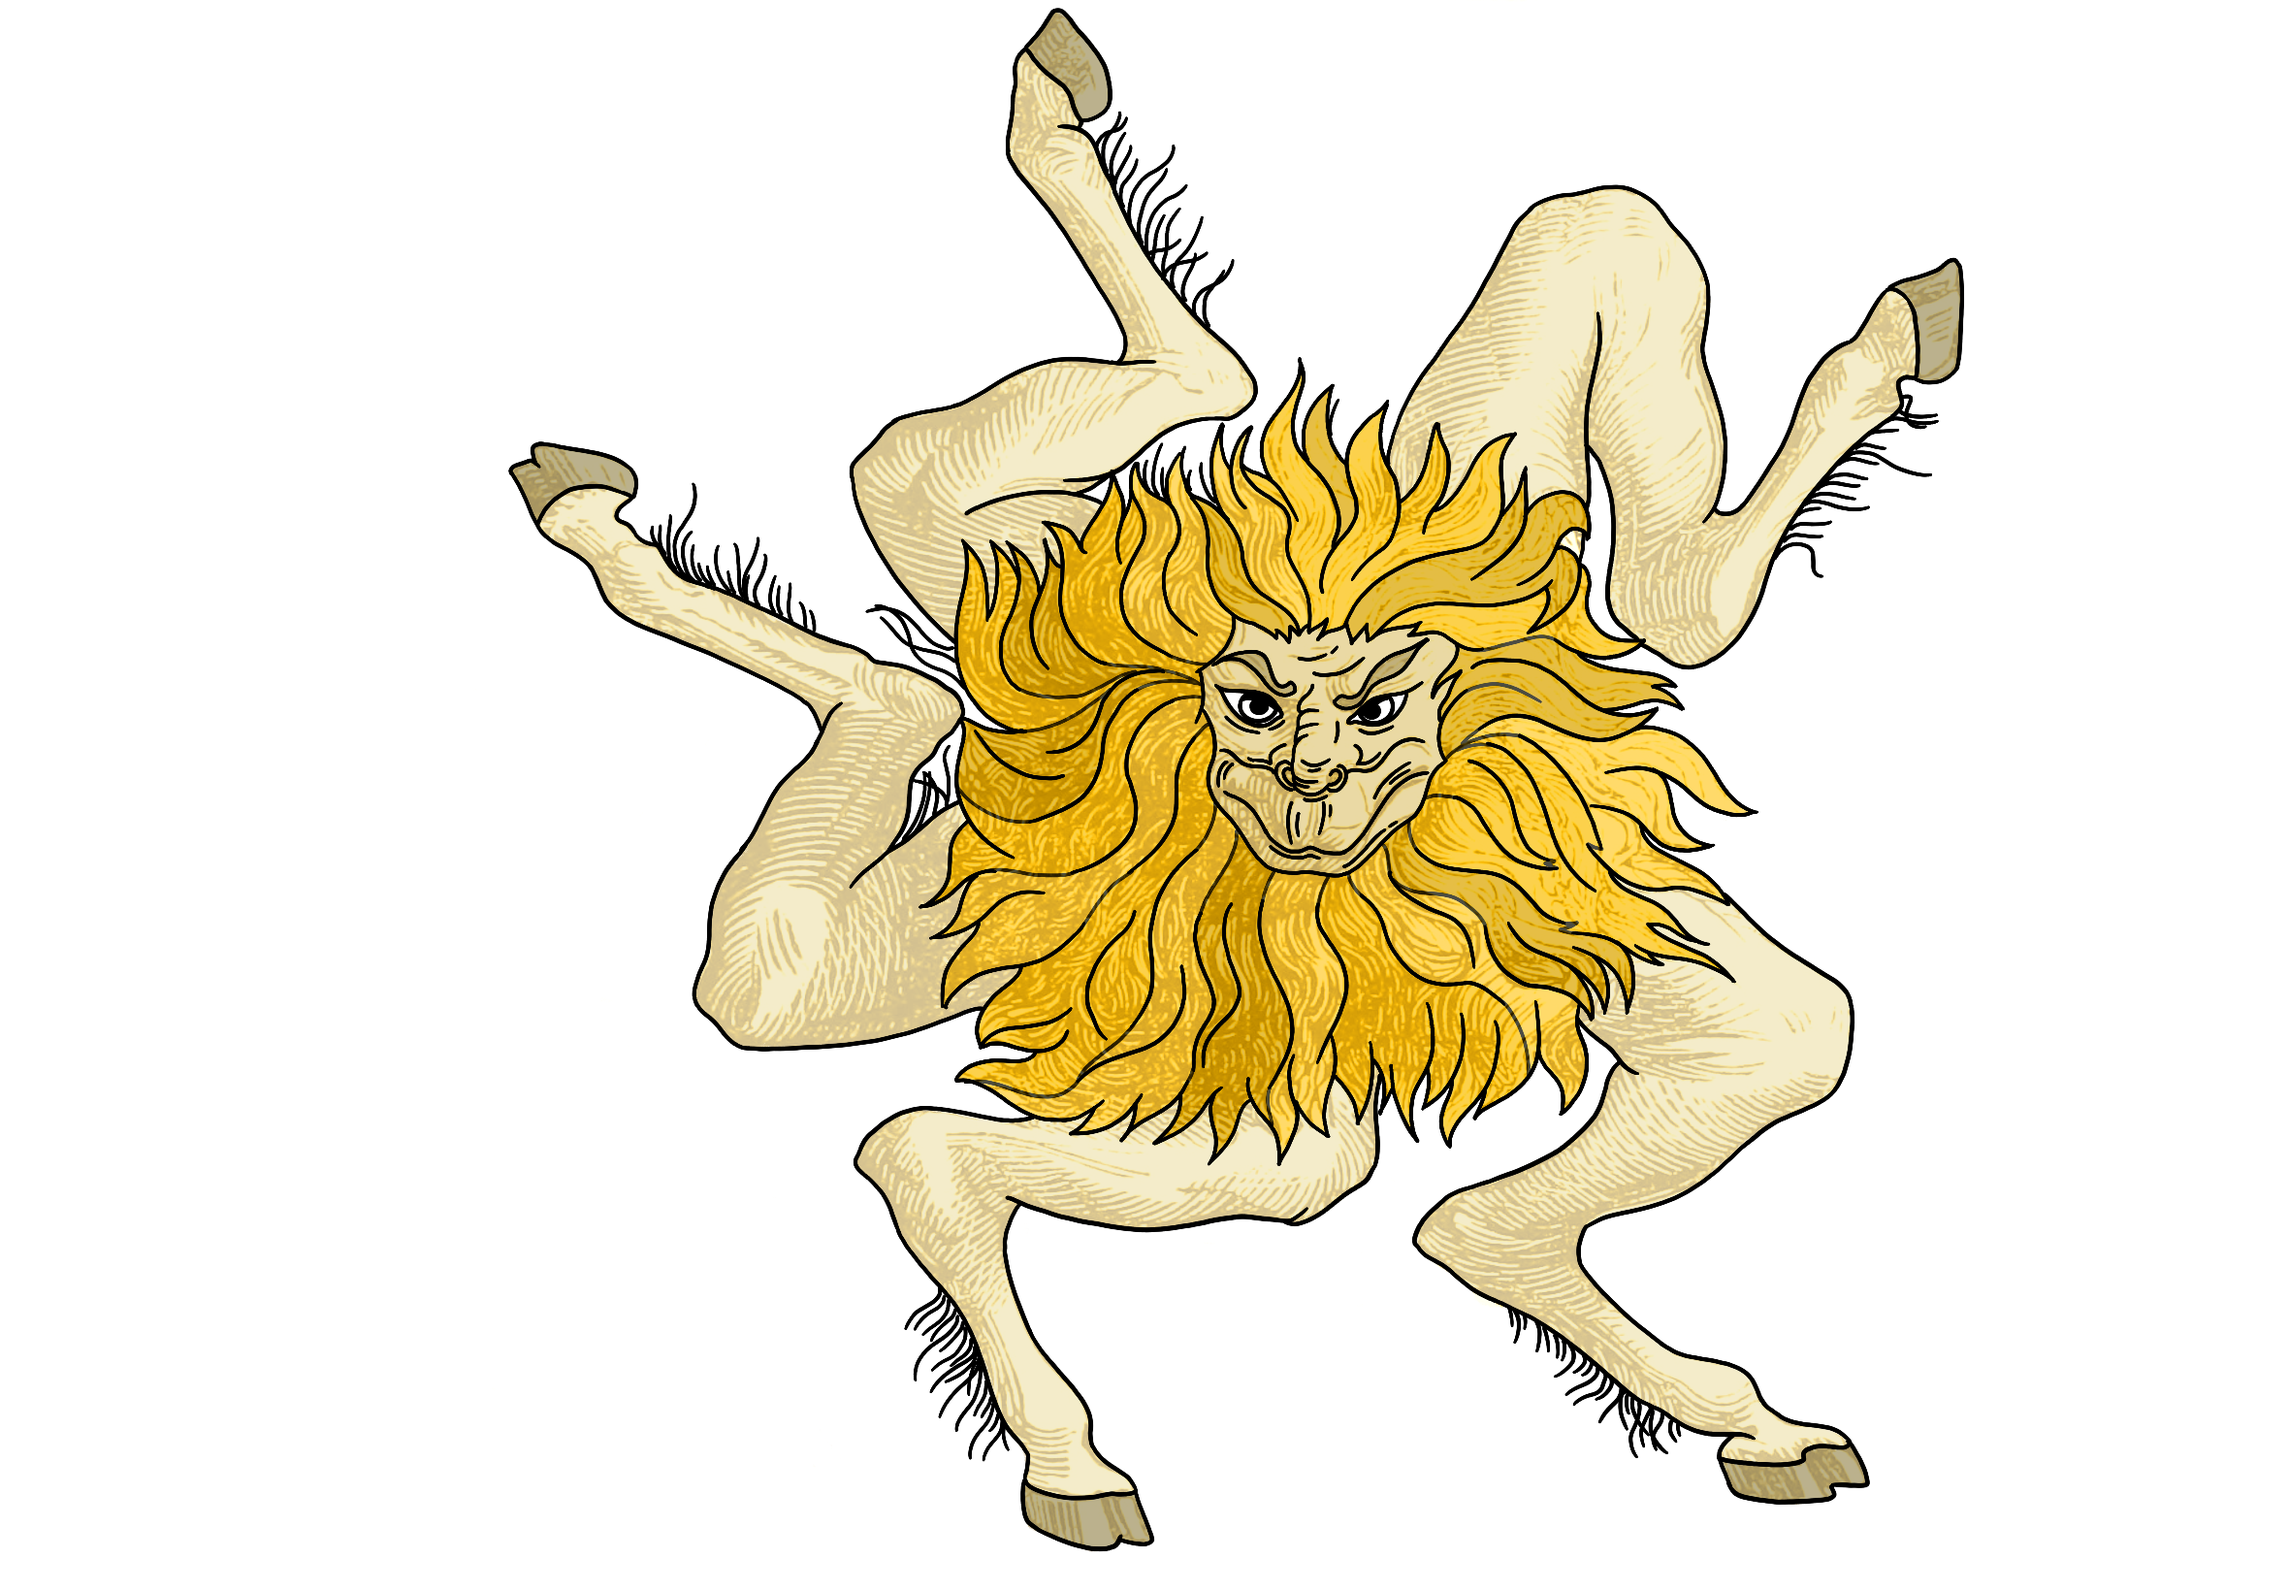
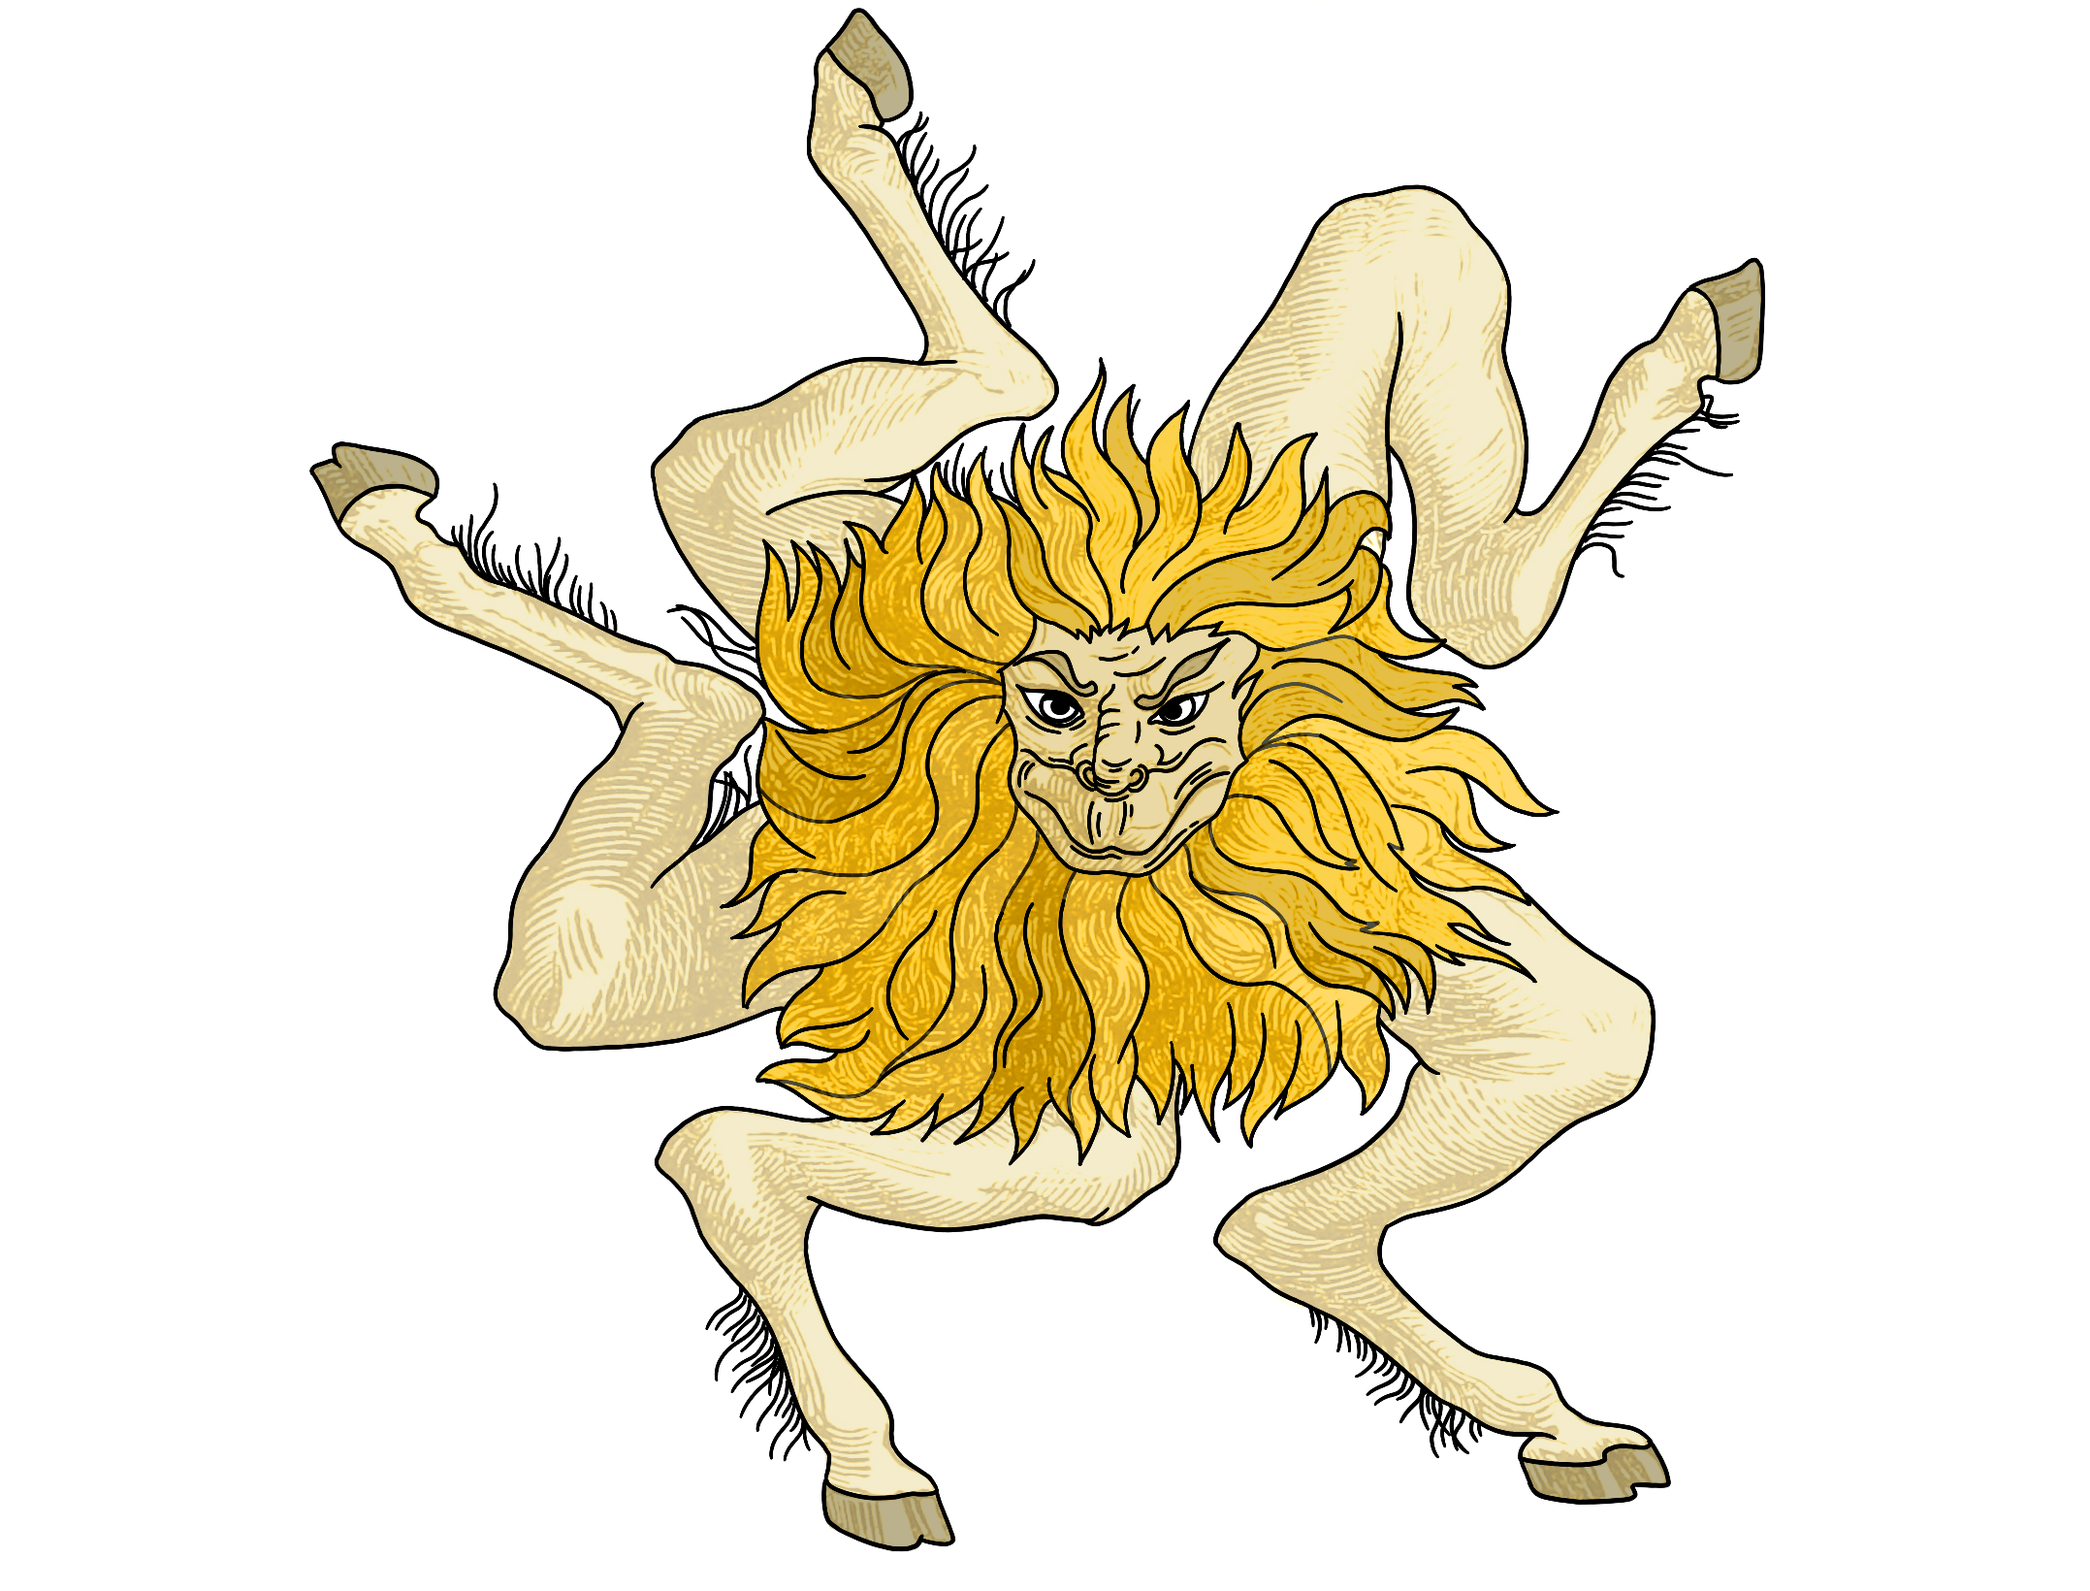
Add SEO and add more content - reinvent the wheel

Changed region(s): [[0.1244, 0.0, 0.8705, 0.9951]]

diff --git a/_includes/head.html b/_includes/head.html
@@ -18,4 +18,6 @@
     <link rel="stylesheet" href="/assets/code.css">
     <script src="https://kit.fontawesome.com/e9dddf84a6.js" crossorigin="anonymous"></script>
     <link rel="alternate" type="application/rss+xml" href="{{ site.url }}/feed.xml">
+
+    {% seo %}
 </head>

diff --git a/_posts/2022-06-26-reinvent-the-wheel.md b/_posts/2022-06-26-reinvent-the-wheel.md
@@ -23,5 +23,16 @@ Starting with the obvious, the wheel would still look like a big chunk of stone 
 <img src="./assets/posts/wheel-evolution.png" /> 
 <p style="text-align: center;">Evolution of Wheel! </p>
 
-<img class="center-image" src="./assets/posts/wheel-animal.png" /> 
-<p style="text-align: center;">Buer the wheel-like creature </p>
+The primitive wheel did the job thousands of years ago but completely unprepared for today's world. If not for the natural innovators around the world who insisted and invested in reinventing the wheel from time to time.
+
+Once again, it's not just about reinventing anything and everything—using the phrase so much that it has become so common that we often don't challenge the existing solutions is something to ponder on. But this isn't always true; products that are deeply engraved in our daily lives are eagerly awaited. For instance, the communication medium, specifically mobile devices, has drastically changed (reinvented) in a short span of 2 decades.
+
+While I agree that all of these are subjective and among the common examples that have conflicting reactions. What if the repercussions are profound and have a severe impact on the future of the world. At first thought, the education system has been about the same for the past 100 years or earlier; despite the efforts of amazing educators to adapt to the modern world, the changes aren't drastic.
+
+English, Physics, Chemistry, and Mathematics - no doubt these are essential, but it seems unfair to ask students to pause their passions while they put all of their time and work into these "core" subjects. 
+Imagine a world where students go to school and teachers help them explore their passion and are more concerned about equipping students with the skills and opportunities rather than teaching the same generic content over and over again. No doubt the education system is stuck in a timeline, and it's about time to reinvent the wheel of education suited to the road of 2022 and beyond.
+
+<img class="center-image" style="width: 65%" src="./assets/posts/wheel-animal.png" /> 
+<p style="text-align: center;">Buer the Demon </p>
+
+I'm out of count - the number of times "don't reinvent the wheel" is overused in software engineering.
